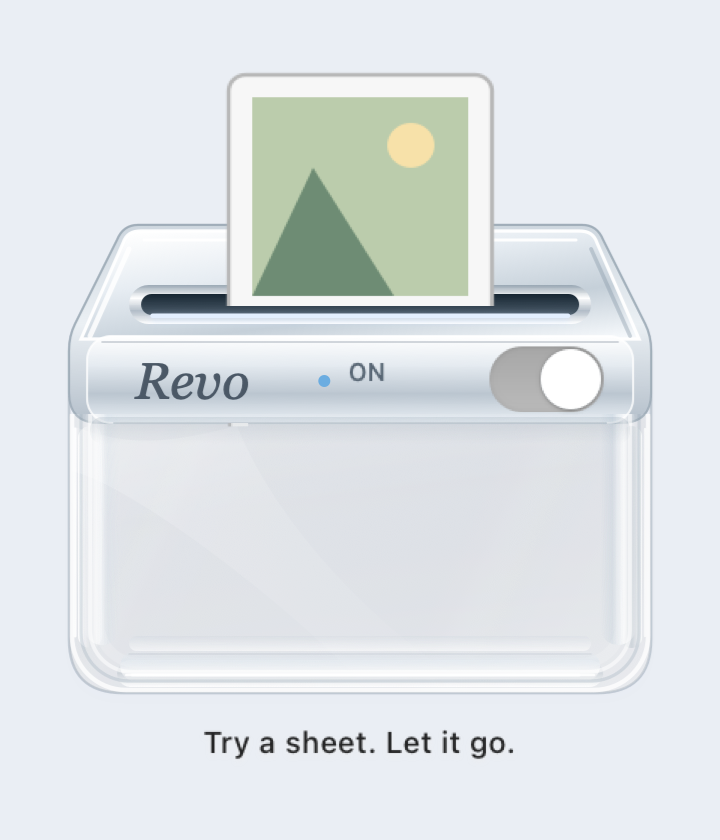
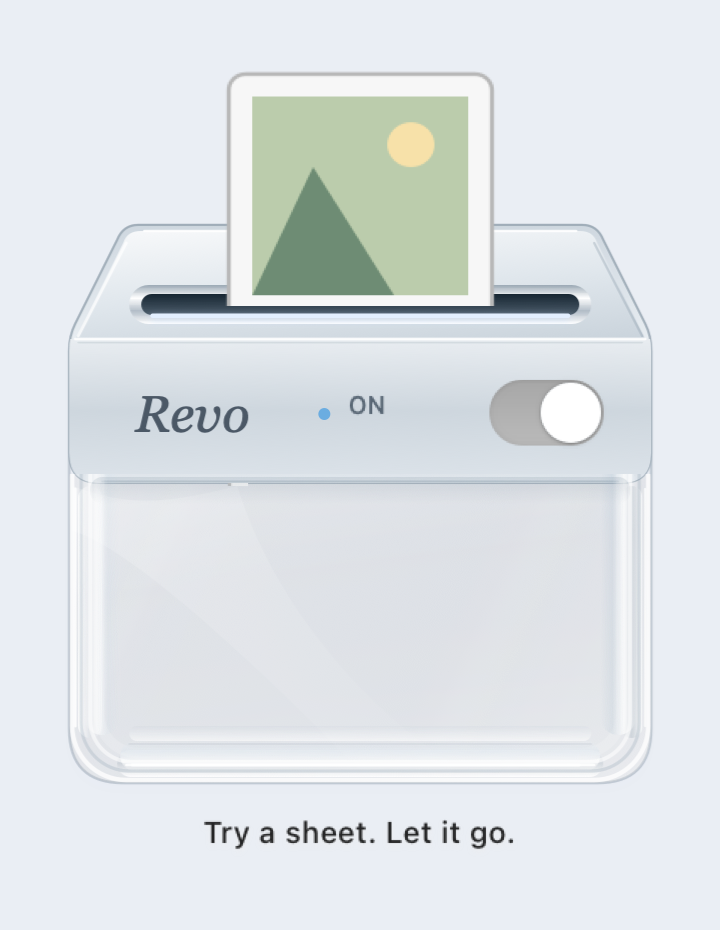
Raise Revo proportions and integrate the metal front face

diff --git a/Sources/Revo/MachineArtwork.swift b/Sources/Revo/MachineArtwork.swift
@@ -3,15 +3,15 @@ import AppKit
 /// An opaque aluminum head sits above a clear enclosure with refractive edges.
 /// The aperture and animation masks share the same physical coordinates.
 enum MachineArtwork {
-    static let size = NSSize(width: 240, height: 280)
-    static let slotY: CGFloat = 178
+    static let size = NSSize(width: 240, height: 310)
+    static let slotY: CGFloat = 208
     static let paperWidth: CGFloat = 90
     static let paperHeight: CGFloat = 94
-    static let window = CGRect(x: 43, y: 62, width: 154, height: 77)
-    static let shell = CGRect(x: 23, y: 49, width: 194, height: 156)
-    static let glassFrame = CGRect(x: 23, y: 49, width: 194, height: 93)
+    static let window = CGRect(x: 43, y: 62, width: 154, height: 87)
+    static let shell = CGRect(x: 23, y: 49, width: 194, height: 186)
+    static let glassFrame = CGRect(x: 23, y: 49, width: 194, height: 103)
     static let inlet = CGRect(x: 47, y: slotY - 3, width: 146, height: 7)
-    static let switchFrame = CGRect(x: 162, y: 141, width: 40, height: 24)
+    static let switchFrame = CGRect(x: 162, y: 160, width: 40, height: 24)
 
     static func color(_ hex: UInt32, _ alpha: CGFloat = 1) -> NSColor {
         NSColor(calibratedRed: CGFloat((hex >> 16) & 255) / 255,
@@ -57,19 +57,19 @@ enum MachineArtwork {
     /// One silhouette keeps the native backdrop inside the sloped glass enclosure.
     static var outline: CGPath {
         let path = CGMutablePath()
-        path.move(to: CGPoint(x: 46, y: 205))
-        path.addLine(to: CGPoint(x: 194, y: 205))
-        path.addQuadCurve(to: CGPoint(x: 201, y: 200), control: CGPoint(x: 199, y: 205))
-        path.addLine(to: CGPoint(x: 215, y: 172))
-        path.addQuadCurve(to: CGPoint(x: 217, y: 163), control: CGPoint(x: 217, y: 168))
+        path.move(to: CGPoint(x: 46, y: 235))
+        path.addLine(to: CGPoint(x: 194, y: 235))
+        path.addQuadCurve(to: CGPoint(x: 201, y: 230), control: CGPoint(x: 199, y: 235))
+        path.addLine(to: CGPoint(x: 215, y: 202))
+        path.addQuadCurve(to: CGPoint(x: 217, y: 193), control: CGPoint(x: 217, y: 198))
         path.addLine(to: CGPoint(x: 217, y: 67))
         path.addQuadCurve(to: CGPoint(x: 199, y: 49), control: CGPoint(x: 217, y: 49))
         path.addLine(to: CGPoint(x: 41, y: 49))
         path.addQuadCurve(to: CGPoint(x: 23, y: 67), control: CGPoint(x: 23, y: 49))
-        path.addLine(to: CGPoint(x: 23, y: 163))
-        path.addQuadCurve(to: CGPoint(x: 25, y: 172), control: CGPoint(x: 23, y: 168))
-        path.addLine(to: CGPoint(x: 39, y: 200))
-        path.addQuadCurve(to: CGPoint(x: 46, y: 205), control: CGPoint(x: 41, y: 205))
+        path.addLine(to: CGPoint(x: 23, y: 193))
+        path.addQuadCurve(to: CGPoint(x: 25, y: 202), control: CGPoint(x: 23, y: 198))
+        path.addLine(to: CGPoint(x: 39, y: 230))
+        path.addQuadCurve(to: CGPoint(x: 46, y: 235), control: CGPoint(x: 41, y: 235))
         path.closeSubpath()
         return path
     }
@@ -77,19 +77,19 @@ enum MachineArtwork {
     /// The head includes its bevels and end caps; every interior pixel is opaque.
     static var headOutline: CGPath {
         let path = CGMutablePath()
-        path.move(to: CGPoint(x: 46, y: 205))
-        path.addLine(to: CGPoint(x: 194, y: 205))
-        path.addQuadCurve(to: CGPoint(x: 201, y: 200), control: CGPoint(x: 199, y: 205))
-        path.addLine(to: CGPoint(x: 215, y: 172))
-        path.addQuadCurve(to: CGPoint(x: 217, y: 163), control: CGPoint(x: 217, y: 168))
-        path.addLine(to: CGPoint(x: 217, y: 149))
-        path.addQuadCurve(to: CGPoint(x: 207, y: 139), control: CGPoint(x: 217, y: 139))
-        path.addLine(to: CGPoint(x: 33, y: 139))
-        path.addQuadCurve(to: CGPoint(x: 23, y: 149), control: CGPoint(x: 23, y: 139))
-        path.addLine(to: CGPoint(x: 23, y: 163))
-        path.addQuadCurve(to: CGPoint(x: 25, y: 172), control: CGPoint(x: 23, y: 168))
-        path.addLine(to: CGPoint(x: 39, y: 200))
-        path.addQuadCurve(to: CGPoint(x: 46, y: 205), control: CGPoint(x: 41, y: 205))
+        path.move(to: CGPoint(x: 46, y: 235))
+        path.addLine(to: CGPoint(x: 194, y: 235))
+        path.addQuadCurve(to: CGPoint(x: 201, y: 230), control: CGPoint(x: 199, y: 235))
+        path.addLine(to: CGPoint(x: 215, y: 202))
+        path.addQuadCurve(to: CGPoint(x: 217, y: 193), control: CGPoint(x: 217, y: 198))
+        path.addLine(to: CGPoint(x: 217, y: 159))
+        path.addQuadCurve(to: CGPoint(x: 207, y: 149), control: CGPoint(x: 217, y: 149))
+        path.addLine(to: CGPoint(x: 33, y: 149))
+        path.addQuadCurve(to: CGPoint(x: 23, y: 159), control: CGPoint(x: 23, y: 149))
+        path.addLine(to: CGPoint(x: 23, y: 193))
+        path.addQuadCurve(to: CGPoint(x: 25, y: 202), control: CGPoint(x: 23, y: 198))
+        path.addLine(to: CGPoint(x: 39, y: 230))
+        path.addQuadCurve(to: CGPoint(x: 46, y: 235), control: CGPoint(x: 41, y: 235))
         path.closeSubpath()
         return path
     }
@@ -97,8 +97,8 @@ enum MachineArtwork {
     /// The glass material stops beneath the solid metal head.
     static var glassOutline: CGPath {
         let path = CGMutablePath()
-        path.move(to: CGPoint(x: 23, y: 142))
-        path.addLine(to: CGPoint(x: 217, y: 142))
+        path.move(to: CGPoint(x: 23, y: 152))
+        path.addLine(to: CGPoint(x: 217, y: 152))
         path.addLine(to: CGPoint(x: 217, y: 67))
         path.addQuadCurve(to: CGPoint(x: 199, y: 49), control: CGPoint(x: 217, y: 49))
         path.addLine(to: CGPoint(x: 41, y: 49))
@@ -122,27 +122,36 @@ enum MachineArtwork {
         gradient(head, [(0xC4CED8, 1), (0xE6ECF1, 1), (0xA6B2BF, 1)], -90)
         stroke(head, 0x8997A5, 0.85, 0.7)
 
-        // The opaque aluminum top recedes toward the narrower back edge.
+        // The top plane and front face meet at one continuous folded edge.
         let top = NSBezierPath()
-        top.move(to: CGPoint(x: 27, y: 167))
-        top.line(to: CGPoint(x: 41, y: 199))
-        top.curve(to: CGPoint(x: 47, y: 203), controlPoint1: CGPoint(x: 42, y: 202), controlPoint2: CGPoint(x: 44, y: 203))
-        top.line(to: CGPoint(x: 193, y: 203))
-        top.curve(to: CGPoint(x: 199, y: 199), controlPoint1: CGPoint(x: 196, y: 203), controlPoint2: CGPoint(x: 198, y: 202))
-        top.line(to: CGPoint(x: 213, y: 167)); top.close()
-        gradient(top, [(0xFFFFFF, 1), (0xE1E8EF, 1), (0xB9C5D0, 1), (0xF8FBFE, 1)], -83)
-        stroke(top, 0xFFFFFF, 0.96, 1.1)
-        line(CGPoint(x: 48, y: 200), CGPoint(x: 192, y: 200), color: 0xFFFFFF, alpha: 0.95)
-        line(CGPoint(x: 30, y: 168), CGPoint(x: 43, y: 197), color: 0xFFFFFF, alpha: 0.85, width: 1.7)
-        line(CGPoint(x: 210, y: 168), CGPoint(x: 197, y: 197), color: 0x738495, alpha: 0.4, width: 1.3)
+        top.move(to: CGPoint(x: 25, y: 197))
+        top.line(to: CGPoint(x: 41, y: 229))
+        top.curve(to: CGPoint(x: 47, y: 233), controlPoint1: CGPoint(x: 42, y: 232), controlPoint2: CGPoint(x: 44, y: 233))
+        top.line(to: CGPoint(x: 193, y: 233))
+        top.curve(to: CGPoint(x: 199, y: 229), controlPoint1: CGPoint(x: 196, y: 233), controlPoint2: CGPoint(x: 198, y: 232))
+        top.line(to: CGPoint(x: 215, y: 197)); top.close()
+        gradient(top, [(0xF4F6F8, 1), (0xD9E1E8, 1), (0xBEC9D3, 1)], -86)
+        line(CGPoint(x: 48, y: 233), CGPoint(x: 192, y: 233), color: 0xFFFFFF, alpha: 0.88, width: 0.8)
+        line(CGPoint(x: 26, y: 198), CGPoint(x: 42, y: 229), color: 0xFFFFFF, alpha: 0.75, width: 1)
+        line(CGPoint(x: 214, y: 198), CGPoint(x: 198, y: 229), color: 0x738495, alpha: 0.35, width: 0.8)
 
-        // The front fascia sits below the top seam, with a soft aluminum sheen.
-        let cassette = rounded(NSRect(x: 29, y: 139, width: 182, height: 29), 8)
-        gradient(cassette, [(0xFFFFFF, 1), (0xDFE6ED, 1), (0xADB9C5, 1), (0xE5ECF3, 1)], -90)
-        stroke(cassette, 0xFFFFFF, 0.78, 0.7)
-        line(CGPoint(x: 34, y: 166), CGPoint(x: 206, y: 166), color: 0x617180, alpha: 0.35, width: 0.6)
-        line(CGPoint(x: 38, y: 139), CGPoint(x: 202, y: 139), color: 0x6F8192, alpha: 0.35, width: 0.7)
-        text("Revo", NSPoint(x: 45, y: 143), NSFont(name: "Georgia-Italic", size: 17) ?? .systemFont(ofSize: 17), 0x3B4653)
+        // This is the full structural face, with no inset plate or decorative capsule.
+        let face = NSBezierPath()
+        face.move(to: CGPoint(x: 23, y: 197))
+        face.line(to: CGPoint(x: 217, y: 197))
+        face.line(to: CGPoint(x: 217, y: 159))
+        face.curve(to: CGPoint(x: 207, y: 149), controlPoint1: CGPoint(x: 217, y: 152), controlPoint2: CGPoint(x: 214, y: 149))
+        face.line(to: CGPoint(x: 33, y: 149))
+        face.curve(to: CGPoint(x: 23, y: 159), controlPoint1: CGPoint(x: 26, y: 149), controlPoint2: CGPoint(x: 23, y: 152))
+        face.close()
+        NSGraphicsContext.saveGraphicsState()
+        head.addClip()
+        gradient(face, [(0xE3E8ED, 1), (0xC3CDD6, 1), (0xD4DCE4, 1)], -90)
+        line(CGPoint(x: 25, y: 197), CGPoint(x: 215, y: 197), color: 0xFFFFFF, alpha: 0.87, width: 0.9)
+        line(CGPoint(x: 26, y: 195.8), CGPoint(x: 214, y: 195.8), color: 0x718291, alpha: 0.20, width: 0.55)
+        line(CGPoint(x: 34, y: 149.5), CGPoint(x: 206, y: 149.5), color: 0x6F8192, alpha: 0.38, width: 0.7)
+        text("Revo", NSPoint(x: 45, y: 162), NSFont(name: "Georgia-Italic", size: 17) ?? .systemFont(ofSize: 17), 0x3B4653)
+        NSGraphicsContext.restoreGraphicsState()
 
         // The inlet and shutter share geometry with the paper clipping plane.
         let lip = rounded(inlet.insetBy(dx: -4, dy: -3), 6.5)
@@ -151,10 +160,10 @@ enum MachineArtwork {
         line(CGPoint(x: 52, y: inlet.minY), CGPoint(x: 188, y: inlet.minY), color: 0xF4FAFF, alpha: 0.9, width: 0.7)
 
         // Thick clear side rails carry the upper-left light down the front face.
-        gradient(rounded(NSRect(x: 26, y: 64, width: 8, height: 74), 4), [(0xFFFFFF, 0.94), (0xA7B3C2, 0.05), (0xFFFFFF, 0.40)], 0)
-        gradient(rounded(NSRect(x: 207, y: 64, width: 7, height: 74), 3.5), [(0xFFFFFF, 0.24), (0x778797, 0.32), (0xFFFFFF, 0.78)], 0)
-        line(CGPoint(x: 25, y: 68), CGPoint(x: 25, y: 137), color: 0xFFFFFF, alpha: 0.88, width: 1)
-        line(CGPoint(x: 215, y: 68), CGPoint(x: 215, y: 137), color: 0xFFFFFF, alpha: 0.72, width: 0.8)
+        gradient(rounded(NSRect(x: 26, y: 64, width: 8, height: 84), 4), [(0xFFFFFF, 0.94), (0xA7B3C2, 0.05), (0xFFFFFF, 0.40)], 0)
+        gradient(rounded(NSRect(x: 207, y: 64, width: 7, height: 84), 3.5), [(0xFFFFFF, 0.24), (0x778797, 0.32), (0xFFFFFF, 0.78)], 0)
+        line(CGPoint(x: 25, y: 68), CGPoint(x: 25, y: 147), color: 0xFFFFFF, alpha: 0.88, width: 1)
+        line(CGPoint(x: 215, y: 68), CGPoint(x: 215, y: 147), color: 0xFFFFFF, alpha: 0.72, width: 0.8)
         gradient(rounded(NSRect(x: 39, y: 51, width: 162, height: 9), 4.5), [(0xFFFFFF, 0.25), (0x81909F, 0.30), (0xFFFFFF, 0.92)])
         line(CGPoint(x: 42, y: 55), CGPoint(x: 198, y: 55), color: 0xFFFFFF, alpha: 0.85, width: 0.8)
         gradient(rounded(NSRect(x: 43, y: 63, width: 154, height: 5), 2.5), [(0xB2BECC, 0.20), (0xFFFFFF, 0.56)])
@@ -167,26 +176,26 @@ enum MachineArtwork {
         front.addClip()
         // A clear center and denser perimeter give the pane a rounded liquid meniscus.
         gradient(front, [(0xFFFFFF, 0.16), (0xE4EFF9, 0.015), (0xFFFFFF, 0.06), (0xFFFFFF, 0.22)], -83)
-        stroke(rounded(NSRect(x: 24, y: 50, width: 192, height: 109), 18), 0xFFFFFF, 0.78, 1.5)
-        stroke(rounded(NSRect(x: 27, y: 53, width: 186, height: 105), 16), 0x718699, 0.23, 1.1)
-        stroke(rounded(NSRect(x: 30, y: 56, width: 180, height: 100), 14), 0xFFFFFF, 0.57, 1.3)
-        stroke(rounded(NSRect(x: 33, y: 59, width: 174, height: 96), 13), 0xFFFFFF, 0.16, 3.5)
+        stroke(rounded(NSRect(x: 24, y: 50, width: 192, height: 119), 18), 0xFFFFFF, 0.78, 1.5)
+        stroke(rounded(NSRect(x: 27, y: 53, width: 186, height: 115), 16), 0x718699, 0.23, 1.1)
+        stroke(rounded(NSRect(x: 30, y: 56, width: 180, height: 110), 14), 0xFFFFFF, 0.57, 1.3)
+        stroke(rounded(NSRect(x: 33, y: 59, width: 174, height: 106), 13), 0xFFFFFF, 0.16, 3.5)
 
         // Broad, low-contrast reflections merge into the clear center.
         let reflection = NSBezierPath()
-        reflection.move(to: CGPoint(x: 24, y: 138))
-        reflection.curve(to: CGPoint(x: 79, y: 138), controlPoint1: CGPoint(x: 43, y: 131), controlPoint2: CGPoint(x: 55, y: 132))
+        reflection.move(to: CGPoint(x: 24, y: 148))
+        reflection.curve(to: CGPoint(x: 79, y: 148), controlPoint1: CGPoint(x: 43, y: 141), controlPoint2: CGPoint(x: 55, y: 142))
         reflection.curve(to: CGPoint(x: 153, y: 54), controlPoint1: CGPoint(x: 93, y: 103), controlPoint2: CGPoint(x: 128, y: 69))
         reflection.line(to: CGPoint(x: 119, y: 54))
-        reflection.curve(to: CGPoint(x: 24, y: 123), controlPoint1: CGPoint(x: 93, y: 81), controlPoint2: CGPoint(x: 44, y: 118))
+        reflection.curve(to: CGPoint(x: 24, y: 133), controlPoint1: CGPoint(x: 93, y: 81), controlPoint2: CGPoint(x: 44, y: 128))
         reflection.close()
         gradient(reflection, [(0xFFFFFF, 0.20), (0xFFFFFF, 0.015)], -48)
-        gradient(rounded(NSRect(x: 28, y: 65, width: 12, height: 80), 6), [(0xFFFFFF, 0.04), (0xFFFFFF, 0.58), (0xB8D1E6, 0.10), (0xFFFFFF, 0.02)], 0)
-        gradient(rounded(NSRect(x: 200, y: 65, width: 12, height: 80), 6), [(0xFFFFFF, 0.015), (0x98AFC3, 0.20), (0xFFFFFF, 0.70), (0xFFFFFF, 0.03)], 0)
+        gradient(rounded(NSRect(x: 28, y: 65, width: 12, height: 90), 6), [(0xFFFFFF, 0.04), (0xFFFFFF, 0.58), (0xB8D1E6, 0.10), (0xFFFFFF, 0.02)], 0)
+        gradient(rounded(NSRect(x: 200, y: 65, width: 12, height: 90), 6), [(0xFFFFFF, 0.015), (0x98AFC3, 0.20), (0xFFFFFF, 0.70), (0xFFFFFF, 0.03)], 0)
         gradient(rounded(NSRect(x: 40, y: 53, width: 160, height: 10), 5), [(0xFFFFFF, 0.06), (0xC4D8E9, 0.25), (0xFFFFFF, 0.77), (0xFFFFFF, 0.02)])
         line(CGPoint(x: 44, y: 55), CGPoint(x: 193, y: 55), color: 0xFFFFFF, alpha: 0.84, width: 1)
         // A narrow contact shadow separates the solid head from the glass below it.
-        gradient(rounded(NSRect(x: 30, y: 132, width: 180, height: 9), 4), [(0x536779, 0.16), (0x536779, 0)], -90)
+        gradient(rounded(NSRect(x: 30, y: 142, width: 180, height: 9), 4), [(0x536779, 0.16), (0x536779, 0)], -90)
         NSGraphicsContext.restoreGraphicsState()
     }
 

diff --git a/Sources/Revo/RevoView.swift b/Sources/Revo/RevoView.swift
@@ -66,9 +66,9 @@ final class RevoView: NSView {
         glow.shadowColor = MachineArtwork.color(0xBFD9FF).cgColor; glow.shadowRadius = 4; glow.shadowOpacity = 0.6; machine.addSublayer(glow)
         shutter.frame = MachineArtwork.inlet
         shutter.contents = MachineArtwork.shutter(); machine.addSublayer(shutter)
-        led.frame = CGRect(x: 106, y: 151, width: 4, height: 4); led.cornerRadius = 2
+        led.frame = CGRect(x: 106, y: 170, width: 4, height: 4); led.cornerRadius = 2
         machine.addSublayer(led)
-        powerLabel.frame = CGRect(x: 116, y: 146, width: 37, height: 15)
+        powerLabel.frame = CGRect(x: 116, y: 165, width: 37, height: 15)
         powerLabel.font = NSFont.systemFont(ofSize: 8, weight: .semibold); powerLabel.fontSize = 8
         powerLabel.contentsScale = NSScreen.main?.backingScaleFactor ?? 2
         powerLabel.foregroundColor = MachineArtwork.color(0x465361).cgColor
@@ -216,7 +216,7 @@ final class RevoView: NSView {
 
     func demo(_ style: ShredStyle) {
         guard isPoweredOn, state != .working else { return }
-        queue.append(contentsOf: [Job(url: URL(fileURLWithPath: "/demo-paper.txt"), style: style, point: CGPoint(x: 120, y: 246), demo: true)])
+        queue.append(contentsOf: [Job(url: URL(fileURLWithPath: "/demo-paper.txt"), style: style, point: CGPoint(x: 120, y: MachineArtwork.slotY + 54), demo: true)])
         next()
     }
     private func next() {

diff --git a/Sources/Revo/Preview.swift b/Sources/Revo/Preview.swift
@@ -21,7 +21,7 @@ enum Preview {
         try? FileManager.default.createDirectory(atPath: directory, withIntermediateDirectories: true)
         guard let view = panel.contentView as? RevoView else { exit(1) }
         func capture(_ name: String) {
-            let width = 720, height = 840
+            let width = Int(MachineArtwork.size.width * 3), height = Int(MachineArtwork.size.height * 3)
             guard let ctx = CGContext(data: nil, width: width, height: height, bitsPerComponent: 8, bytesPerRow: width * 4, space: CGColorSpaceCreateDeviceRGB(), bitmapInfo: CGImageAlphaInfo.premultipliedLast.rawValue) else { return }
             ctx.setFillColor(MachineArtwork.color(0xE5EAF1).cgColor); ctx.fill(CGRect(x: 0, y: 0, width: width, height: height)); ctx.scaleBy(x: 3, y: 3)
             (view.layer?.presentation() ?? view.layer)?.render(in: ctx)

diff --git a/README.md b/README.md
@@ -9,7 +9,7 @@ A tiny native macOS desktop companion that turns letting go of files into a smal
 
 ## The little machine
 
-A solid silver head, clear glass enclosure, layered edge reflections, and a native on/off switch. A gently elevated viewpoint reveals the receding top plane and metal front fascia. Larger file previews align with the inlet before feeding into the glass enclosure. The entire head, including its bevels and end caps, is opaque aluminum. The lower enclosure combines subtle native desktop diffusion with a clear center, curved reflections, and a thick liquid-glass rim. Reduce Transparency replaces the glass with a solid native backdrop. The metal inlet and glass highlights are drawn in code with AppKit. Core Animation handles the paper feed, cutting, falling scraps, and subtle mechanical feedback. The only branding is Revo, set in Georgia Italic. The compact desktop panel measures 216 × 252 points.
+A solid silver head, clear glass enclosure, layered edge reflections, and a native on/off switch. A gently elevated viewpoint reveals the receding top plane and a continuous metal front face. The taller silhouette gives the solid head a larger share of the body, with no inset front plate. Larger file previews align with the inlet before feeding into the glass enclosure. The entire head, including its bevels and end caps, is opaque aluminum. The lower enclosure combines subtle native desktop diffusion with a clear center, curved reflections, and a thick liquid-glass rim. Reduce Transparency replaces the glass with a solid native backdrop. The metal inlet and glass highlights are drawn in code with AppKit. Core Animation handles the paper feed, cutting, falling scraps, and subtle mechanical feedback. The only branding is Revo, set in Georgia Italic. The compact desktop panel measures 216 × 279 points.
 
 - Documents become narrow paper strips.
 - Photos use a thumbnail and break into confetti.
